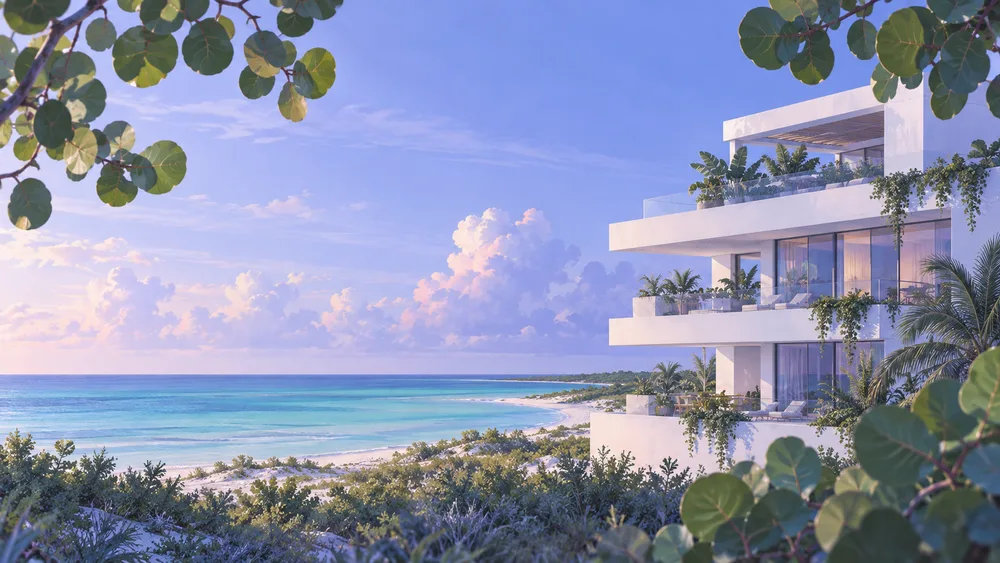
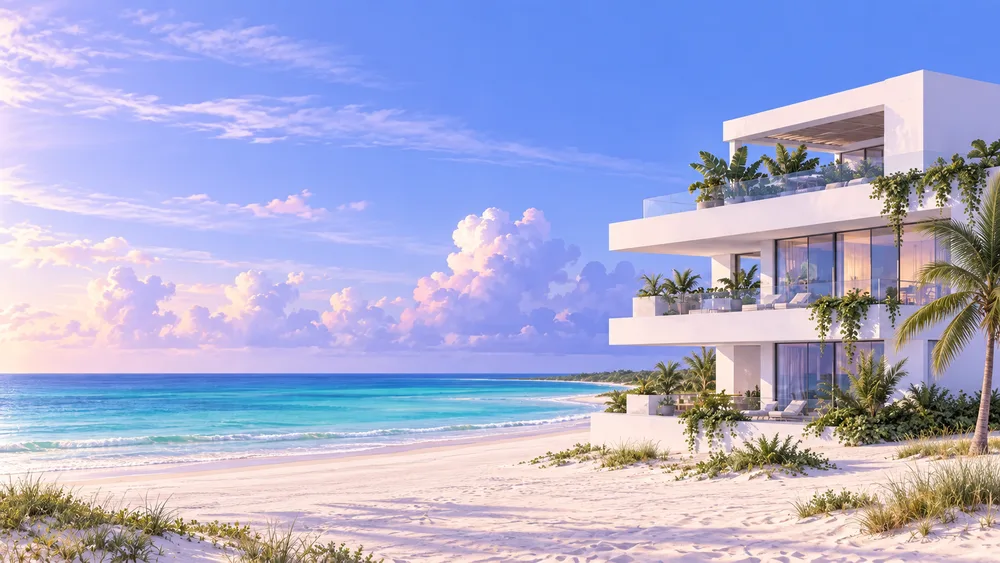
Use flat tropical Yucatan landscapes for project carousel

diff --git a/index-es.html b/index-es.html
@@ -83,7 +83,7 @@ body{background:var(--paper)}header{background:#f5f5f8ed}
 <a class="skip" href="#main">Saltar al contenido</a>
 <header><div class="wrap nav"><a class="brand-well" href="#home" aria-label="Nodo"><span class="logo"><img src="assets/nodo-stationery-logo.png" alt="Nodo" width="960" height="320" fetchpriority="high"></span></a><button class="menu" type="button" aria-expanded="false" aria-controls="navigation" hidden>Menú</button><nav class="links" id="navigation" aria-label="Navegación principal"><a href="#portfolio">Proyectos</a><a href="#technical">Estudios técnicos</a><a href="#experience">Experiencia</a><a href="#contact">Contacto</a><a class="language" href="index.html" lang="en">EN</a></nav></div></header>
 <main id="main"><section class="hero" id="home"><div class="wrap hero-grid"><div class="hero-copy"><h1>Proyectos de consultoría ambiental</h1><p>Elaboración e integración técnica de estudios de impacto ambiental y documentación complementaria para proyectos habitacionales, inmobiliarios, comerciales y de servicios en Yucatán.</p><div class="actions"><a class="button" href="#portfolio">Ver proyectos</a><a href="#contact">Consultar sobre un proyecto</a></div></div><nav class="hero-topics" aria-label="Explorar secciones"><a href="#portfolio">Proyectos</a><a href="#technical">Estudios técnicos</a><a href="#gis">Cartografía y SIG</a></nav></div></section>
-<section class="section" id="portfolio"><div class="wrap"><div class="portfolio-heading"><div><h2 id="portfolio-heading">Proyectos representativos</h2><p class="credit">Autor / principal elaborador a través de PRODESES S.C.P. | 2024–2026</p></div><div class="carousel-controls" hidden><button class="carousel-control" type="button" data-carousel-prev aria-controls="project-track" aria-label="Proyecto anterior">&#8592;</button><span class="carousel-status" id="project-position" role="status" aria-live="polite" aria-atomic="true">1 / 5</span><button class="carousel-control" type="button" data-carousel-next aria-controls="project-track" aria-label="Siguiente proyecto">&#8594;</button></div></div><div class="project-carousel" role="region" aria-roledescription="carrusel" aria-labelledby="portfolio-heading" tabindex="0"><div class="project-grid" id="project-track"><article class="project-card" role="group" aria-roledescription="diapositiva" aria-label="1 de 5"><div class="project-cover"><img src="assets/projects/san-benito.webp" alt="" loading="lazy" decoding="async" width="1200" height="800"><h3>SAN BENITO 21</h3></div><div class="project-body"><p class="location">San Benito, Ixil, Yucatán</p><p>Desarrollo habitacional de departamentos de planta baja y tres niveles.</p><span class="reference">MIA-P | Clave 31YU2024TD066</span></div></article><article class="project-card" role="group" aria-roledescription="diapositiva" aria-label="2 de 5"><div class="project-cover"><img src="assets/projects/isna-ha.webp" alt="" loading="lazy" decoding="async" width="1200" height="800"><h3>ISNA HA</h3></div><div class="project-body"><p class="location">San Benito, Ixil, Yucatán</p><p>Desarrollo inmobiliario habitacional.</p><span class="reference">MIA-P | Clave 31YU2024TD111</span></div></article><article class="project-card" role="group" aria-roledescription="diapositiva" aria-label="3 de 5"><div class="project-cover"><img src="assets/projects/casa-pomare.webp" alt="" loading="lazy" decoding="async" width="1200" height="800"><h3>CASA POMARE</h3></div><div class="project-body"><p class="location">El Cuyo, Tizimín, Yucatán</p><p>Construcción y operación de casa de veraneo de planta baja y dos niveles.</p><span class="reference">MIA-P | Clave 31YU2025TD020</span></div></article><article class="project-card" role="group" aria-roledescription="diapositiva" aria-label="4 de 5"><div class="project-cover"><img src="assets/projects/san-ignacio.webp" alt="" loading="lazy" decoding="async" width="1200" height="800"><h3>BODEGA SAN IGNACIO</h3></div><div class="project-body"><p class="location">San Ignacio, Progreso, Yucatán</p><p>Construcción y operación de patio de maniobras y bodega para almacenamiento y manejo de insumos, materiales y equipos.</p><span class="reference">MIA-P | Clave 31YU2025ID034</span></div></article><article class="project-card" role="group" aria-roledescription="diapositiva" aria-label="5 de 5"><div class="project-cover"><img src="assets/projects/uma-kiin.webp" alt="" loading="lazy" decoding="async" width="1200" height="800"><h3>UMA KIIN</h3></div><div class="project-body"><p class="location">El Cuyo, Tizimín, Yucatán</p><p>Elaboración de la documentación técnica para la solicitud de exención de presentación de Manifestación de Impacto Ambiental para actividades e instalaciones de una Unidad de Manejo para la Conservación de la Vida Silvestre.</p><span class="reference">Solicitud de exención de presentación de MIA-P</span></div></article></div></div><p class="image-note">Imágenes ilustrativas de referencia.</p></div></section>
+<section class="section" id="portfolio"><div class="wrap"><div class="portfolio-heading"><div><h2 id="portfolio-heading">Proyectos representativos</h2><p class="credit">Autor / principal elaborador a través de PRODESES S.C.P. | 2024–2026</p></div><div class="carousel-controls" hidden><button class="carousel-control" type="button" data-carousel-prev aria-controls="project-track" aria-label="Proyecto anterior">&#8592;</button><span class="carousel-status" id="project-position" role="status" aria-live="polite" aria-atomic="true">1 / 5</span><button class="carousel-control" type="button" data-carousel-next aria-controls="project-track" aria-label="Siguiente proyecto">&#8594;</button></div></div><div class="project-carousel" role="region" aria-roledescription="carrusel" aria-labelledby="portfolio-heading" tabindex="0"><div class="project-grid" id="project-track"><article class="project-card" role="group" aria-roledescription="diapositiva" aria-label="1 de 5"><div class="project-cover"><img src="assets/projects/san-benito.webp?v=tropical-2" alt="" loading="lazy" decoding="async" width="1200" height="800"><h3>SAN BENITO 21</h3></div><div class="project-body"><p class="location">San Benito, Ixil, Yucatán</p><p>Desarrollo habitacional de departamentos de planta baja y tres niveles.</p><span class="reference">MIA-P | Clave 31YU2024TD066</span></div></article><article class="project-card" role="group" aria-roledescription="diapositiva" aria-label="2 de 5"><div class="project-cover"><img src="assets/projects/isna-ha.webp?v=tropical-2" alt="" loading="lazy" decoding="async" width="1200" height="800"><h3>ISNA HA</h3></div><div class="project-body"><p class="location">San Benito, Ixil, Yucatán</p><p>Desarrollo inmobiliario habitacional.</p><span class="reference">MIA-P | Clave 31YU2024TD111</span></div></article><article class="project-card" role="group" aria-roledescription="diapositiva" aria-label="3 de 5"><div class="project-cover"><img src="assets/projects/casa-pomare.webp?v=tropical-2" alt="" loading="lazy" decoding="async" width="1200" height="800"><h3>CASA POMARE</h3></div><div class="project-body"><p class="location">El Cuyo, Tizimín, Yucatán</p><p>Construcción y operación de casa de veraneo de planta baja y dos niveles.</p><span class="reference">MIA-P | Clave 31YU2025TD020</span></div></article><article class="project-card" role="group" aria-roledescription="diapositiva" aria-label="4 de 5"><div class="project-cover"><img src="assets/projects/san-ignacio.webp?v=tropical-2" alt="" loading="lazy" decoding="async" width="1200" height="800"><h3>BODEGA SAN IGNACIO</h3></div><div class="project-body"><p class="location">San Ignacio, Progreso, Yucatán</p><p>Construcción y operación de patio de maniobras y bodega para almacenamiento y manejo de insumos, materiales y equipos.</p><span class="reference">MIA-P | Clave 31YU2025ID034</span></div></article><article class="project-card" role="group" aria-roledescription="diapositiva" aria-label="5 de 5"><div class="project-cover"><img src="assets/projects/uma-kiin.webp?v=tropical-2" alt="" loading="lazy" decoding="async" width="1200" height="800"><h3>UMA KIIN</h3></div><div class="project-body"><p class="location">El Cuyo, Tizimín, Yucatán</p><p>Elaboración de la documentación técnica para la solicitud de exención de presentación de Manifestación de Impacto Ambiental para actividades e instalaciones de una Unidad de Manejo para la Conservación de la Vida Silvestre.</p><span class="reference">Solicitud de exención de presentación de MIA-P</span></div></article></div></div><p class="image-note">Imágenes ilustrativas de referencia.</p></div></section>
 <section class="section" id="projects"><div class="wrap technical"><details id="projects-panel"><summary><h2>Proyectos</h2></summary><ul class="project-list"><li><h3>Rehabilitación Hidrológica y Reforestación de los Manglares de Chuburná Puerto, Yucatán.</h3></li><li><h3>Restauración de humedales tipo manglar de Chuburná Puerto, Yucatán.</h3></li><li><h3>Levantamiento de flora y fauna, evaluación de servicios ambientales, impacto ambiental y medidas de mitigación en zonas costeras y del interior en la Península de Yucatán</h3></li><li><h3>Mejoramiento del flujo hídrico del manglar en La Reserva de la Biosfera Ría Celestún</h3></li><li><h3>Restauración de manglares del norte de Yucatán (San Bruno).</h3></li><li><h3>Estructura funcional de la comunidad íctica en cuerpos de agua dulceacuícolas de Yucatán con relación a los factores abióticos</h3></li></ul></details></div></section>
 <section class="section" id="technical"><div class="wrap technical"><details open><summary><h2>Estudios técnicos y documentación ambiental derivada</h2></summary><p>Como parte de la elaboración de los proyectos anteriores, desarrollo e integración de estudios especializados, programas de manejo y documentación técnica complementaria.</p><ul><li>Estudios de capacidad de carga y factibilidad urbana ambiental.</li><li>Estudios hidráulicos y análisis de condiciones hidrológicas del sitio.</li><li>Estudios de hidrodinámica costera.</li><li>Levantamientos de flora y fauna y caracterización de comunidades biológicas.</li><li>Programas de rescate, reubicación y regeneración de flora.</li><li>Programas de manejo y conservación de manglar.</li><li>Programas de manejo de tortugas marinas.</li><li>Programas de manejo de residuos sólidos urbanos.</li><li>Programas de manejo de residuos de manejo especial.</li><li>Planes de autosuficiencia y sustentabilidad específicos para proyectos.</li><li>Análisis energético de proyectos.</li><li>Cálculo y análisis de gases de efecto invernadero (GEI) y energía disipada.</li><li>Integración de documentación técnica para solicitudes de exención de Manifestación de Impacto Ambiental.</li><li>Elaboración e integración de planos y productos cartográficos para estudios ambientales.</li></ul></details><details id="gis"><summary><h2>Cartografía y sistemas de información geográfica</h2></summary><p>Generación de productos cartográficos y análisis espaciales orientados a gestión, ordenamiento ecológico y evaluación de impactos ambientales.</p><ul><li>Análisis espacial y geoprocesamiento aplicado a evaluación ambiental y ordenamiento territorial.</li><li>Integración y análisis de información vectorial y ráster, incluyendo datos ambientales y territoriales.</li><li>Cálculo y análisis de índices espectrales (NDVI, NDWI y derivados).</li><li>Integración de herramientas de inteligencia artificial para clasificación, extracción y análisis de información geoespacial.</li><li>Análisis multicriterio y modelación territorial para evaluación de aptitud y compatibilidad ambiental.</li><li>Teledetección e interpretación de imágenes satelitales para análisis de cobertura y condiciones ambientales.</li><li>Automatización de procesos geoespaciales mediante Modelador Gráfico y Python/PyQGIS.</li><li>Manejo de sistemas de referencia, proyecciones y transformaciones para integración de diferentes fuentes cartográficas.</li></ul></details></div></section><section class="section" id="experience"><div class="wrap"><h2>Experiencia técnica</h2><div class="experience-grid"><div>
 <details class="record" open><summary>Supervisor de proyectos<small>Ducks Unlimited de México (DUMAC) · Mérida · 2014–2016</small></summary><p>Ejecución de proyectos de rehabilitación con muestreo para análisis de variables fisicoquímicas en laboratorio y monitoreo de aves acuáticas y plántulas de manglar como indicadores de éxito. Monitoreo en campo, análisis estadístico de bases de datos y preparación de estudios técnicos.</p></details>

diff --git a/index.html b/index.html
@@ -83,7 +83,7 @@ body{background:var(--paper)}header{background:#f5f5f8ed}
 <a class="skip" href="#main">Skip to content</a>
 <header><div class="wrap nav"><a class="brand-well" href="#home" aria-label="Nodo"><span class="logo"><img src="assets/nodo-stationery-logo.png" alt="Nodo" width="960" height="320" fetchpriority="high"></span></a><button class="menu" type="button" aria-expanded="false" aria-controls="navigation" hidden>Menu</button><nav class="links" id="navigation" aria-label="Main navigation"><a href="#portfolio">Projects</a><a href="#technical">Technical studies</a><a href="#experience">Experience</a><a href="#contact">Contact</a><a class="language" href="index-es.html" lang="es">ES</a></nav></div></header>
 <main id="main"><section class="hero" id="home"><div class="wrap hero-grid"><div class="hero-copy"><h1>Environmental consulting projects</h1><p>Preparation and technical integration of environmental impact studies and complementary documentation for housing, real estate, commercial and service projects in Yucatán.</p><div class="actions"><a class="button" href="#portfolio">View projects</a><a href="#contact">Discuss a project</a></div></div><nav class="hero-topics" aria-label="Explore sections"><a href="#portfolio">Projects</a><a href="#technical">Technical studies</a><a href="#gis">Cartography &amp; GIS</a></nav></div></section>
-<section class="section" id="portfolio"><div class="wrap"><div class="portfolio-heading"><div><h2 id="portfolio-heading">Representative projects</h2><p class="credit">Author / lead preparer through PRODESES S.C.P. | 2024–2026</p></div><div class="carousel-controls" hidden><button class="carousel-control" type="button" data-carousel-prev aria-controls="project-track" aria-label="Previous project">&#8592;</button><span class="carousel-status" id="project-position" role="status" aria-live="polite" aria-atomic="true">1 / 5</span><button class="carousel-control" type="button" data-carousel-next aria-controls="project-track" aria-label="Next project">&#8594;</button></div></div><div class="project-carousel" role="region" aria-roledescription="carousel" aria-labelledby="portfolio-heading" tabindex="0"><div class="project-grid" id="project-track"><article class="project-card" role="group" aria-roledescription="slide" aria-label="1 of 5"><div class="project-cover"><img src="assets/projects/san-benito.webp" alt="" loading="lazy" decoding="async" width="1200" height="800"><h3>SAN BENITO 21</h3></div><div class="project-body"><p class="location">San Benito, Ixil, Yucatán</p><p>Residential apartment development with a ground floor and three upper levels.</p><span class="reference">MIA-P | Reference 31YU2024TD066</span></div></article><article class="project-card" role="group" aria-roledescription="slide" aria-label="2 of 5"><div class="project-cover"><img src="assets/projects/isna-ha.webp" alt="" loading="lazy" decoding="async" width="1200" height="800"><h3>ISNA HA</h3></div><div class="project-body"><p class="location">San Benito, Ixil, Yucatán</p><p>Residential real estate development.</p><span class="reference">MIA-P | Reference 31YU2024TD111</span></div></article><article class="project-card" role="group" aria-roledescription="slide" aria-label="3 of 5"><div class="project-cover"><img src="assets/projects/casa-pomare.webp" alt="" loading="lazy" decoding="async" width="1200" height="800"><h3>CASA POMARE</h3></div><div class="project-body"><p class="location">El Cuyo, Tizimín, Yucatán</p><p>Construction and operation of a holiday home with a ground floor and two upper levels.</p><span class="reference">MIA-P | Reference 31YU2025TD020</span></div></article><article class="project-card" role="group" aria-roledescription="slide" aria-label="4 of 5"><div class="project-cover"><img src="assets/projects/san-ignacio.webp" alt="" loading="lazy" decoding="async" width="1200" height="800"><h3>BODEGA SAN IGNACIO</h3></div><div class="project-body"><p class="location">San Ignacio, Progreso, Yucatán</p><p>Construction and operation of a maneuvering yard and warehouse for storage and handling of supplies, materials and equipment.</p><span class="reference">MIA-P | Reference 31YU2025ID034</span></div></article><article class="project-card" role="group" aria-roledescription="slide" aria-label="5 of 5"><div class="project-cover"><img src="assets/projects/uma-kiin.webp" alt="" loading="lazy" decoding="async" width="1200" height="800"><h3>UMA KIIN</h3></div><div class="project-body"><p class="location">El Cuyo, Tizimín, Yucatán</p><p>Technical documentation for a request for exemption from submitting an Environmental Impact Statement for the activities and facilities of a Wildlife Conservation Management Unit.</p><span class="reference">Request for exemption from submitting a MIA-P</span></div></article></div></div><p class="image-note">Illustrative reference images.</p></div></section>
+<section class="section" id="portfolio"><div class="wrap"><div class="portfolio-heading"><div><h2 id="portfolio-heading">Representative projects</h2><p class="credit">Author / lead preparer through PRODESES S.C.P. | 2024–2026</p></div><div class="carousel-controls" hidden><button class="carousel-control" type="button" data-carousel-prev aria-controls="project-track" aria-label="Previous project">&#8592;</button><span class="carousel-status" id="project-position" role="status" aria-live="polite" aria-atomic="true">1 / 5</span><button class="carousel-control" type="button" data-carousel-next aria-controls="project-track" aria-label="Next project">&#8594;</button></div></div><div class="project-carousel" role="region" aria-roledescription="carousel" aria-labelledby="portfolio-heading" tabindex="0"><div class="project-grid" id="project-track"><article class="project-card" role="group" aria-roledescription="slide" aria-label="1 of 5"><div class="project-cover"><img src="assets/projects/san-benito.webp?v=tropical-2" alt="" loading="lazy" decoding="async" width="1200" height="800"><h3>SAN BENITO 21</h3></div><div class="project-body"><p class="location">San Benito, Ixil, Yucatán</p><p>Residential apartment development with a ground floor and three upper levels.</p><span class="reference">MIA-P | Reference 31YU2024TD066</span></div></article><article class="project-card" role="group" aria-roledescription="slide" aria-label="2 of 5"><div class="project-cover"><img src="assets/projects/isna-ha.webp?v=tropical-2" alt="" loading="lazy" decoding="async" width="1200" height="800"><h3>ISNA HA</h3></div><div class="project-body"><p class="location">San Benito, Ixil, Yucatán</p><p>Residential real estate development.</p><span class="reference">MIA-P | Reference 31YU2024TD111</span></div></article><article class="project-card" role="group" aria-roledescription="slide" aria-label="3 of 5"><div class="project-cover"><img src="assets/projects/casa-pomare.webp?v=tropical-2" alt="" loading="lazy" decoding="async" width="1200" height="800"><h3>CASA POMARE</h3></div><div class="project-body"><p class="location">El Cuyo, Tizimín, Yucatán</p><p>Construction and operation of a holiday home with a ground floor and two upper levels.</p><span class="reference">MIA-P | Reference 31YU2025TD020</span></div></article><article class="project-card" role="group" aria-roledescription="slide" aria-label="4 of 5"><div class="project-cover"><img src="assets/projects/san-ignacio.webp?v=tropical-2" alt="" loading="lazy" decoding="async" width="1200" height="800"><h3>BODEGA SAN IGNACIO</h3></div><div class="project-body"><p class="location">San Ignacio, Progreso, Yucatán</p><p>Construction and operation of a maneuvering yard and warehouse for storage and handling of supplies, materials and equipment.</p><span class="reference">MIA-P | Reference 31YU2025ID034</span></div></article><article class="project-card" role="group" aria-roledescription="slide" aria-label="5 of 5"><div class="project-cover"><img src="assets/projects/uma-kiin.webp?v=tropical-2" alt="" loading="lazy" decoding="async" width="1200" height="800"><h3>UMA KIIN</h3></div><div class="project-body"><p class="location">El Cuyo, Tizimín, Yucatán</p><p>Technical documentation for a request for exemption from submitting an Environmental Impact Statement for the activities and facilities of a Wildlife Conservation Management Unit.</p><span class="reference">Request for exemption from submitting a MIA-P</span></div></article></div></div><p class="image-note">Illustrative reference images.</p></div></section>
 <section class="section" id="projects"><div class="wrap technical"><details id="projects-panel"><summary><h2>Projects</h2></summary><ul class="project-list"><li><h3>Hydrological Rehabilitation and Reforestation of the Mangroves of Chuburná Puerto, Yucatán.</h3></li><li><h3>Restoration of mangrove wetlands in Chuburná Puerto, Yucatán.</h3></li><li><h3>Flora and fauna surveys, ecosystem-service assessment, environmental impact and mitigation measures in coastal and inland areas of the Yucatán Peninsula</h3></li><li><h3>Improvement of mangrove water flow in the Ría Celestún Biosphere Reserve</h3></li><li><h3>Restoration of mangroves in northern Yucatán (San Bruno).</h3></li><li><h3>Functional structure of fish communities in freshwater bodies of Yucatán in relation to abiotic factors</h3></li></ul></details></div></section>
 <section class="section" id="technical"><div class="wrap technical"><details open><summary><h2>Technical studies and associated environmental documentation</h2></summary><p>Development and integration of specialized studies, management programs and complementary technical documentation as part of the projects listed above.</p><ul><li>Carrying-capacity and urban-environmental feasibility studies.</li><li>Hydraulic studies and analysis of site hydrological conditions.</li><li>Coastal hydrodynamic studies.</li><li>Flora and fauna surveys and characterization of biological communities.</li><li>Flora rescue, relocation and regeneration programs.</li><li>Mangrove management and conservation programs.</li><li>Sea-turtle management programs.</li><li>Municipal solid-waste management programs.</li><li>Special-management waste programs.</li><li>Project-specific self-sufficiency and sustainability plans.</li><li>Project energy analysis.</li><li>Calculation and analysis of greenhouse gases (GHG) and dissipated energy.</li><li>Integration of technical documentation for Environmental Impact Statement exemption requests.</li><li>Preparation and integration of plans and cartographic products for environmental studies.</li></ul></details><details id="gis"><summary><h2>Cartography and geographic information systems</h2></summary><p>Production of cartographic outputs and spatial analyses for management, ecological land-use planning and environmental impact assessment.</p><ul><li>Spatial analysis and geoprocessing applied to environmental assessment and land-use planning.</li><li>Integration and analysis of vector and raster information, including environmental and territorial data.</li><li>Calculation and analysis of spectral indices (NDVI, NDWI and derivatives).</li><li>Integration of artificial intelligence tools for classification, extraction and analysis of geospatial information.</li><li>Multicriteria analysis and territorial modeling to assess environmental suitability and compatibility.</li><li>Remote sensing and satellite-image interpretation to analyze land cover and environmental conditions.</li><li>Automation of geospatial processes using Graphical Modeler and Python/PyQGIS.</li><li>Management of reference systems, projections and transformations to integrate different cartographic sources.</li></ul></details></div></section><section class="section" id="experience"><div class="wrap"><h2>Technical experience</h2><div class="experience-grid"><div>
 <details class="record" open><summary>Project supervisor<small>Ducks Unlimited de México (DUMAC) · Mérida · 2014–2016</small></summary><p>Implementation of rehabilitation projects with sampling for laboratory analysis of physicochemical variables and monitoring of waterbirds and mangrove seedlings as success indicators. Field monitoring, statistical analysis of databases and preparation of technical studies.</p></details>
